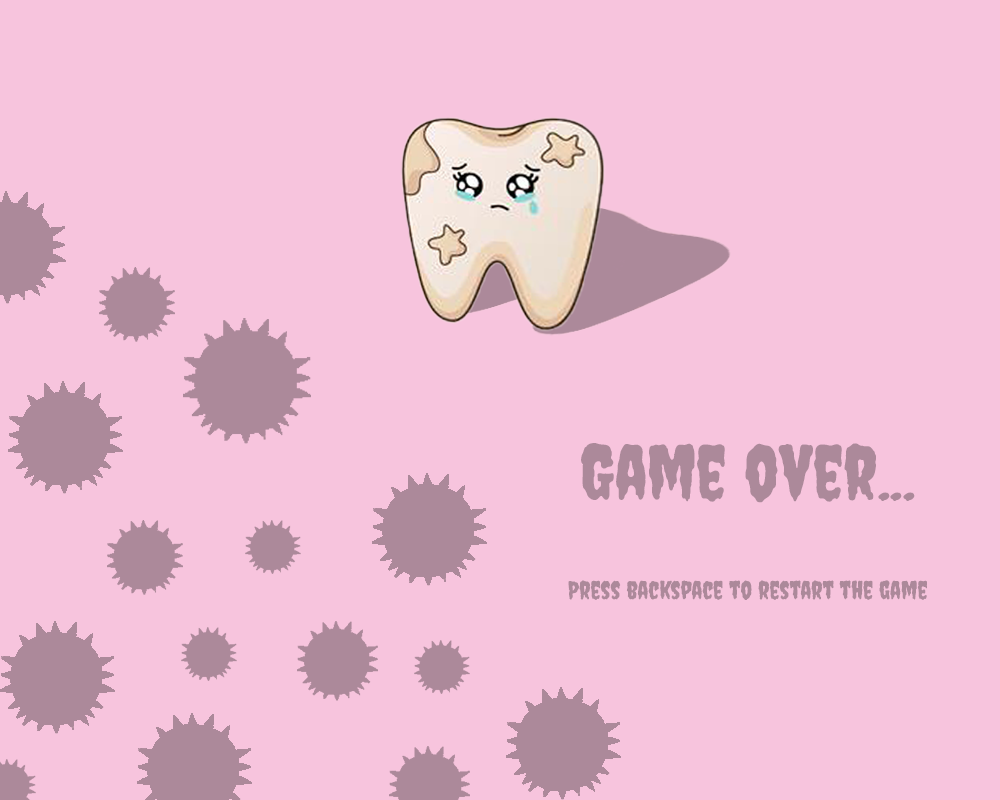
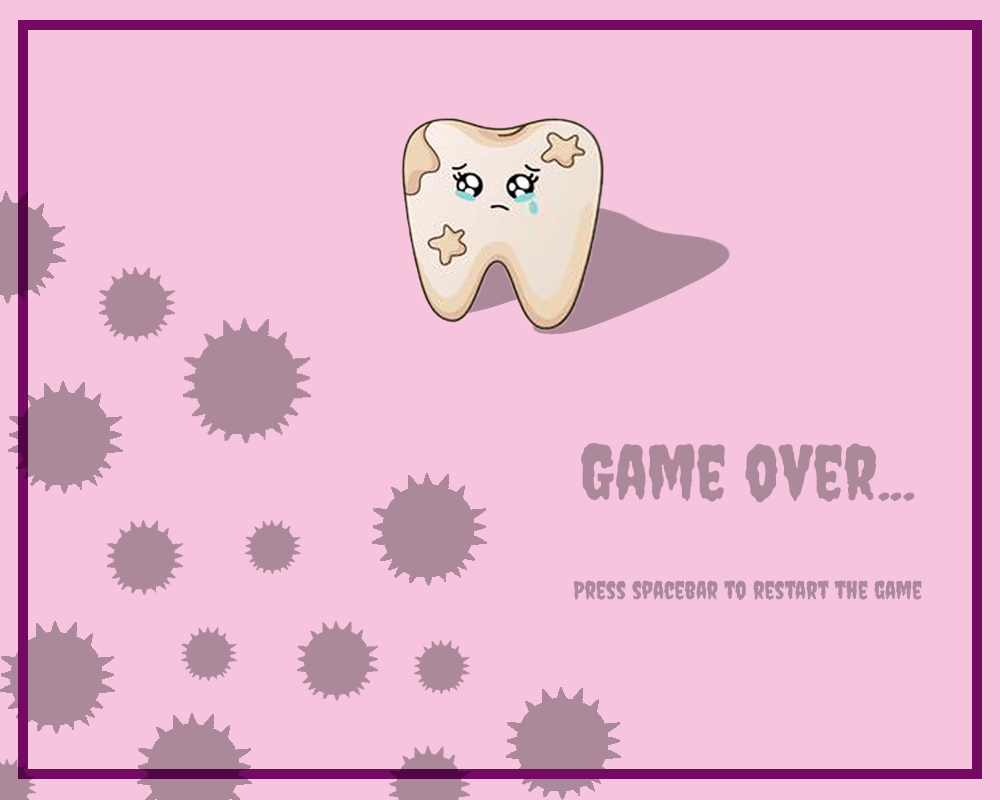
link Demon king

Changed region(s): [[0.0, 0.0, 0.992, 1.0], [0.558, 0.7188, 0.93, 0.75]]

diff --git a/GDS137/DemonKing/game.js b/GDS137/DemonKing/game.js
@@ -128,6 +128,7 @@ function keyStart()
     {
         if(space)
         {
+            space = false
             currentState = 1
         }
         
@@ -138,9 +139,10 @@ function keyContinue()
 {
     if(gameOver == true)
     {
-        if(enter)
+        if(space)
         {
-           currentState = 2
+            space = false
+            currentState = 2
         }
    }
 }
@@ -149,9 +151,19 @@ function keyRestart()
 {
     if(gameOver == true)
     {
-        if(restart)
+        if(space)
         {
+            space = false
             health = 100
+
+            bacteriaM.y = rand(-250, -495)
+            bacteriaL.y = rand(-250, -495)
+            bacteriaR.y = rand(-250, -495)
+
+            toothM.y = rand(-25, -560)
+            toothL.y = rand(-25, -560)
+            toothR.y = rand(-25, -560)
+
             currentState = 2
         }
     }
@@ -245,19 +257,19 @@ gameStates[2] = function()
 
     if(bacteriaM.y  > canvas.height)
     {
-        bacteriaM.y = -250
+        bacteriaM.y = rand(-250, -495)
         bacteriaM.vy = rand(2.5,4.5)
     }
 
     if(bacteriaL.y  > canvas.height)
     {
-        bacteriaL.y = -350
+        bacteriaL.y = rand(-250, -495)
         bacteriaL.vy = rand(2.5,4.5)
     }
 
     if(bacteriaR.y  > canvas.height)
     {
-        bacteriaR.y = -495
+        bacteriaR.y = rand(-250, -495)
         bacteriaR.vy = rand(2.5,4.5)
     }
 
@@ -265,19 +277,19 @@ gameStates[2] = function()
     
     if(toothM.y > canvas.height)
     {
-        toothM.y = -25
+        toothM.y = rand(-25, -560)
         toothM.vy = rand(2,4)
     }
 
     if(toothL.y > canvas.height)
     {
-        toothL.y = -285
+        toothL.y = rand(-25, -560)
         toothL.vy = rand(2,4)
     }
 
     if(toothR.y > canvas.height)
     {
-        toothR.y = -560
+        toothR.y = rand(-25, -560)
         toothR.vy = rand(2,4)
     }
 
@@ -365,7 +377,7 @@ gameStates[2] = function()
         if(player.hitTestObject(invincible[f]))
 		{
 			invincible[f].x = fairyPos[Math.floor(rand(0,2.9))];
-            invincible[f].y = rand(-1500, -1000 )
+            invincible[f].y = rand(-3500, -3000 )
             invincible[f].vy = rand(1,5)
 
             health = health + 20
